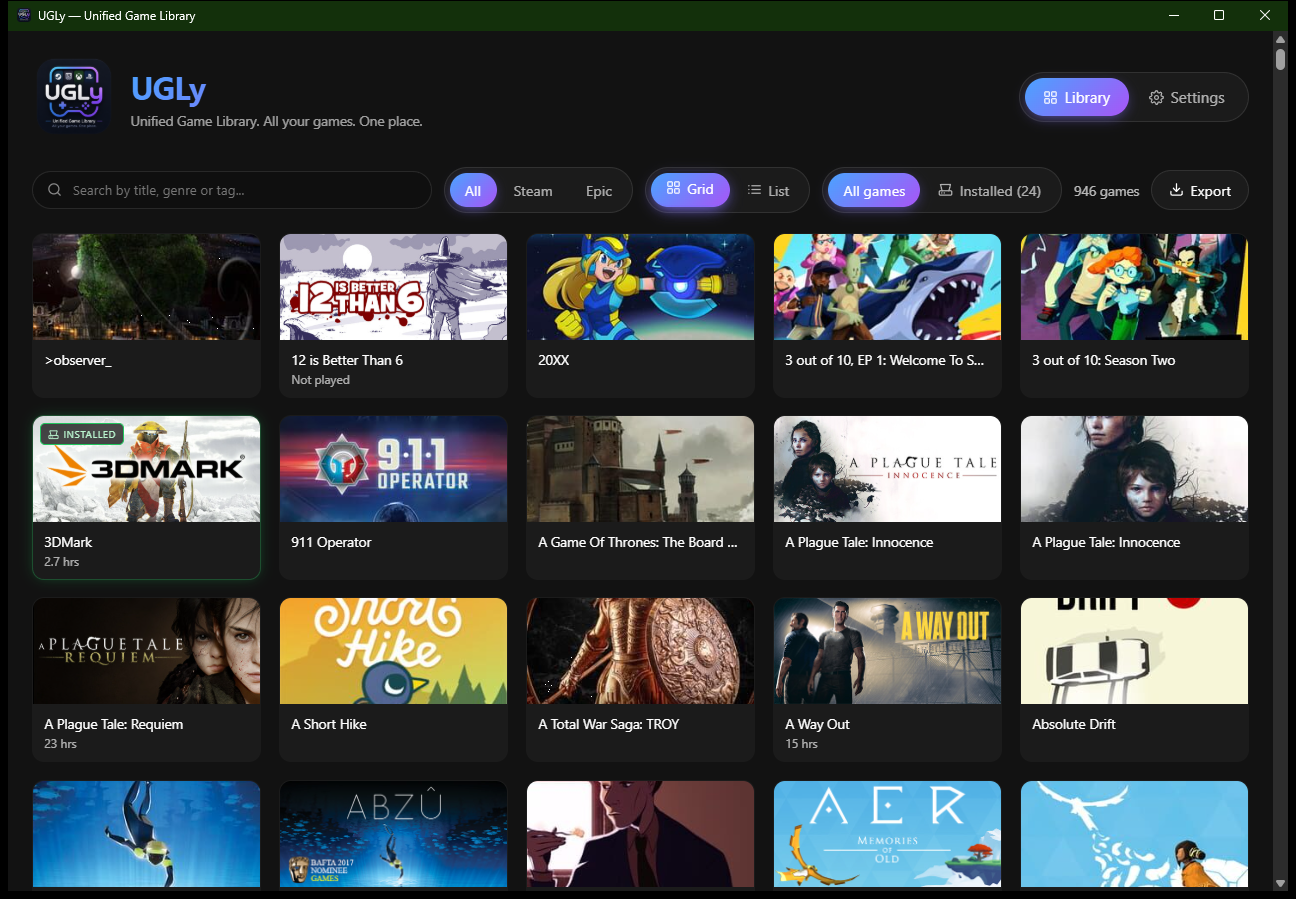
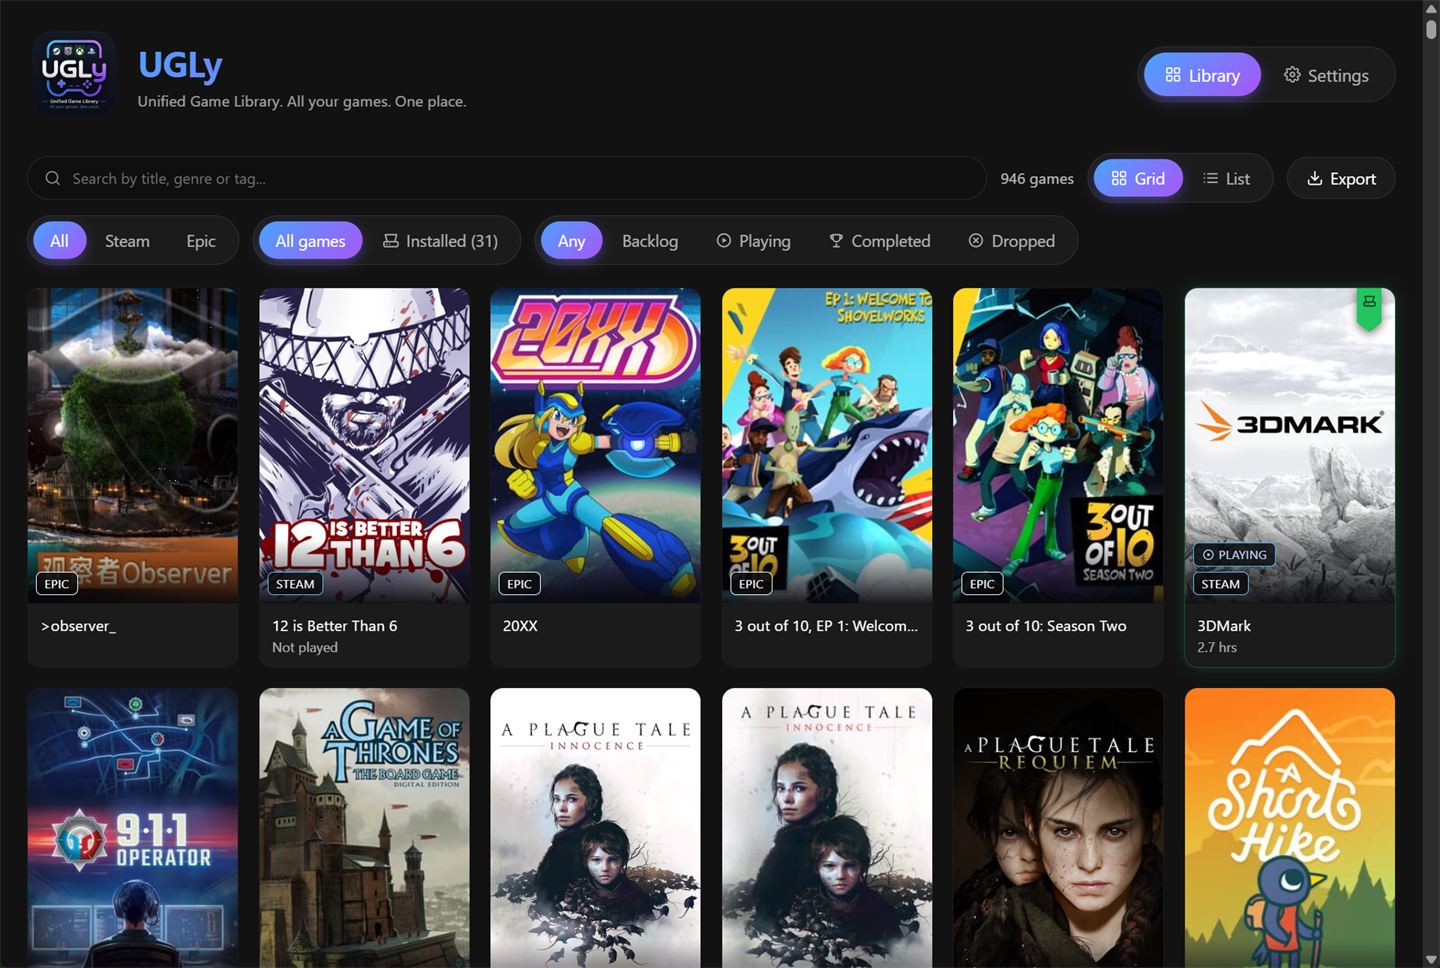
Show the app version in Settings, add Codex setup, refresh the screenshots
Version comes from Tauri's package info rather than CARGO_PKG_VERSION, so it is
the same number the installer and the Windows apps list report. Shown as a
footer spanning the settings columns, next to the project link. The workspace
and package.json versions are bumped to 1.1.0 to match tauri.conf.json — the
MCP server reporting a different number to the app it ships with would be
confusing.

Codex configures MCP servers through a form rather than a JSON file, so neither
the README nor the in-app panel was much use there: both now give the command
path on its own alongside the JSON, and the README has the click-through.

Screenshots retaken at 1440px against the real library. They now show what this
release changed — Steam's player-voted tags in the list view, the installed
pennant and status chips in the grid. The SteamID is masked as it was before.

diff --git a/client/src/App.jsx b/client/src/App.jsx
@@ -8,6 +8,7 @@ import SettingsPanel from './components/SettingsPanel';
 import EpicImport from './components/EpicImport';
 import SteamFamilyImport from './components/SteamFamilyImport';
 import McpPanel from './components/McpPanel';
+import ExternalLink from './components/ExternalLink';
 import FilterBar from './components/FilterBar';
 import GameGrid from './components/GameGrid';
 import GameList from './components/GameList';
@@ -43,6 +44,7 @@ export default function App() {
   const [statusFilter, setStatusFilter] = useState('all');
   const [notice, setNotice] = useState(null);
   const [detailGame, setDetailGame] = useState(null);
+  const [appVersion, setAppVersion] = useState(null);
   const enrichRequested = useRef(false);
 
   const loadAll = useCallback(async () => {
@@ -87,6 +89,11 @@ export default function App() {
   }, [loadAll]);
 
   // Rust pushes these, so the UI reacts without polling.
+  // Fixed for the life of the process, so it's fetched once and never refreshed.
+  useEffect(() => {
+    api.getAppVersion().then(setAppVersion).catch(() => {});
+  }, []);
+
   useEffect(() => {
     const unlisten = [];
     api.onEnrichmentProgress((job) => {
@@ -395,6 +402,16 @@ export default function App() {
               />
 
               <McpPanel />
+
+              {/* Spans the columns so it reads as a footer for the whole screen rather
+                  than the tail of whichever column it landed in. */}
+              <p className="settings-version">
+                UGLy {appVersion ?? '…'}
+                <span className="settings-version-sep">·</span>
+                <ExternalLink href="https://github.com/kuraikage/unified-game-library">
+                  github.com/kuraikage/unified-game-library
+                </ExternalLink>
+              </p>
             </div>
           )}
 

diff --git a/client/src/components/McpPanel.jsx b/client/src/components/McpPanel.jsx
@@ -50,6 +50,14 @@ export default function McpPanel() {
             <code>claude_desktop_config.json</code>; for Claude Code, run{' '}
             <code>claude mcp add ugly -- "{info.path}"</code>.
           </p>
+          {/* Codex has a form for this, so the JSON below is no use there — it needs the
+              path on its own. */}
+          <p className="hint">
+            Codex has a form instead: <strong>Settings → MCP Servers → + Add server</strong>, pick
+            a local/STDIO server, name it <code>ugly</code> and give it this command, leaving the
+            arguments and working directory empty:
+          </p>
+          <pre className="snippet">{info.path}</pre>
           <pre className="snippet">{info.config}</pre>
           <div className="button-row">
             <button type="button" onClick={handleCopy}>

diff --git a/client/src/api.js b/client/src/api.js
@@ -49,6 +49,7 @@ const tauriApi = {
   // Rust resolves the bundled MCP binary's path, since the installer lets the user pick
   // where the app goes — the UI must not guess it.
   getMcpInfo: () => invoke('get_mcp_info'),
+  getAppVersion: () => invoke('get_app_version'),
 
   // Pushed from Rust: the bookmarklet landing in the background, and lookup progress.
   onEpicImported: (handler) => listen('epic-imported', (event) => handler(event.payload)),

diff --git a/client/src/App.css b/client/src/App.css
@@ -1416,3 +1416,21 @@ hr {
     opacity: 1;
   }
 }
+
+/* Footer line under the settings columns: app version and project link. */
+.settings-version {
+  column-span: all;
+  margin: 0.5rem 0 0;
+  text-align: center;
+  font-size: 0.8rem;
+  opacity: 0.5;
+}
+
+.settings-version a {
+  color: inherit;
+}
+
+.settings-version-sep {
+  margin: 0 0.5rem;
+  opacity: 0.6;
+}

diff --git a/client/src/devFixture.js b/client/src/devFixture.js
@@ -128,6 +128,7 @@ export const devApi = {
   installGame: async () => {},
   openExternal: async (url) => window.open(url, '_blank'),
   bookmarkletPort: async () => 43117,
+  getAppVersion: async () => '1.1.0-fixture',
   getMcpInfo: async () => ({
     available: true,
     path: 'C:\\Users\\you\\AppData\\Local\\UGLy\\ugly-mcp.exe',

diff --git a/src-tauri/src/commands.rs b/src-tauri/src/commands.rs
@@ -1,7 +1,7 @@
 use std::collections::{HashMap, HashSet};
 use std::sync::Arc;
 
-use tauri::{AppHandle, State};
+use tauri::{AppHandle, Manager, State};
 
 use crate::credentials::{self, Secret};
 use crate::jobs::JobSlot;
@@ -529,6 +529,15 @@ pub fn set_game_status(
         .set_status(&slug, parsed, igdb::now_ms())
         .map_err(to_err)?;
     state.store.all_statuses().map_err(to_err)
+}
+
+/// The version shown in Settings.
+///
+/// Read from Tauri's package info rather than `CARGO_PKG_VERSION`, so it is the same
+/// number the installer and the Windows "Apps & features" entry report.
+#[tauri::command]
+pub fn get_app_version(app: AppHandle) -> String {
+    app.package_info().version.to_string()
 }
 
 // ---------- mcp server ----------

diff --git a/src-tauri/src/lib.rs b/src-tauri/src/lib.rs
@@ -108,6 +108,7 @@ pub fn run() {
             commands::open_external,
             commands::bookmarklet_port,
             commands::get_mcp_info,
+            commands::get_app_version,
         ])
         .run(tauri::generate_context!())
         .expect("error while running tauri application");

diff --git a/README.md b/README.md
@@ -32,13 +32,15 @@ your mood — or connect the [built-in MCP server](#ask-an-ai-what-to-play) and 
 
 <sub>Grid view — Steam, Epic and Steam Family in one place, with installed games marked.</sub>
 
-<img src="docs/screenshots/library-list.png" alt="List view showing title, platform, playtime, genres and tags with Play and Store actions" />
+<img src="docs/screenshots/library-list.png" alt="List view showing title, platform, playtime, genres and Steam tags with Play and Store actions" />
 
-<sub>List view — genres and tags from IGDB, with Play or Store depending on whether it's installed.</sub>
+<sub>List view — Steam's player-voted tags alongside IGDB genres, with Play or Store depending on
+whether it's installed. Clicking any row or card opens the full details.</sub>
 
 <img src="docs/screenshots/settings.png" alt="Settings screen showing library counts, connection status and the import bookmarklets" />
 
-<sub>Settings — library totals, connection status, and the one-time bookmarklet setup.</sub>
+<sub>Settings — library totals, connection status, the one-time bookmarklet setup, and the MCP
+server details.</sub>
 
 ## Features
 
@@ -129,13 +131,14 @@ library and answer the question the app exists to solve:
 > *"I've got about two hours and I want something atmospheric I can finish in one sitting. What's
 > installed that fits?"*
 
-Open **Settings → Ask an AI what to play** and press **Copy config** — it fills in the path to the
-bundled `ugly-mcp` binary for you. Paste it into your MCP client and restart it.
+Open **Settings → Ask an AI what to play**. It shows the full path to the bundled `ugly-mcp`
+binary and a **Copy config** button — whichever client you use, that path is what it needs.
 
 <details>
-<summary>Configuring it by hand</summary>
+<summary>Claude Desktop</summary>
 
-For Claude Desktop, add this to `claude_desktop_config.json`:
+Press **Copy config** in Settings and paste it into `claude_desktop_config.json`, then restart
+Claude Desktop:
 
 ```json
 {
@@ -148,17 +151,40 @@ For Claude Desktop, add this to `claude_desktop_config.json`:
 }
 ```
 
-For Claude Code:
+</details>
+
+<details>
+<summary>Claude Code</summary>
 
 ```bash
 claude mcp add ugly -- "C:\Users\you\AppData\Local\UGLy\ugly-mcp.exe"
 ```
 
-The path depends on where you installed UGLy; the Settings panel shows the real one. The server
-finds the database on its own — if yours lives somewhere unusual, point `UGLY_DATA_DIR` at the
-folder containing `ugly.db`.
+</details>
+
+<details>
+<summary>Codex</summary>
+
+Codex has a UI for this, so there's no JSON to paste:
+
+1. Open **Codex → Settings → MCP Servers**
+2. Click **+ Add server**
+3. Choose **STDIO / Local server** (wording varies by version)
+4. Fill in:
+   - **Name:** `ugly`
+   - **Command:** the path shown in UGLy's Settings, e.g.
+     `C:\Users\you\AppData\Local\UGLy\ugly-mcp.exe`
+   - **Arguments:** leave empty
+   - **Working directory:** leave empty
+5. Save and enable it
+
+It should then show as enabled under **Settings → MCP Servers**.
 
 </details>
+
+The path depends on where you installed UGLy, which is why Settings shows the real one rather than
+a guess. The server finds the library database on its own — if yours lives somewhere unusual, point
+`UGLY_DATA_DIR` at the folder containing `ugly.db`.
 
 ### What it can do
 
